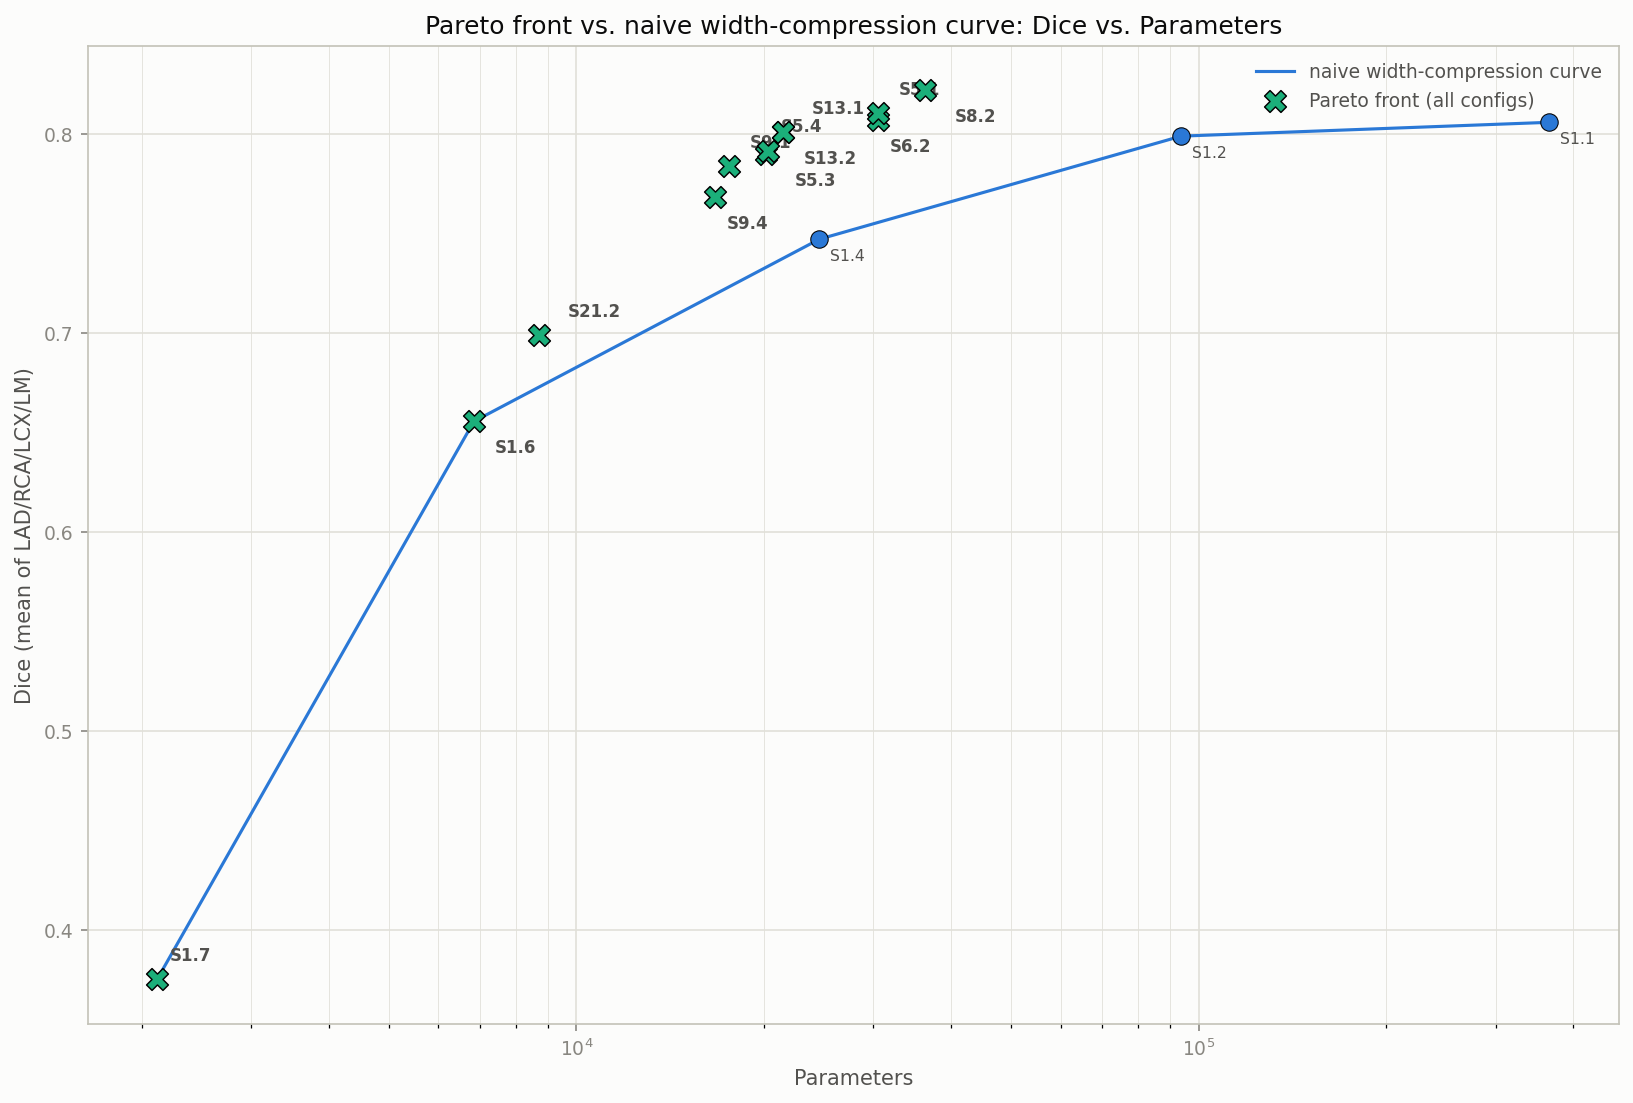
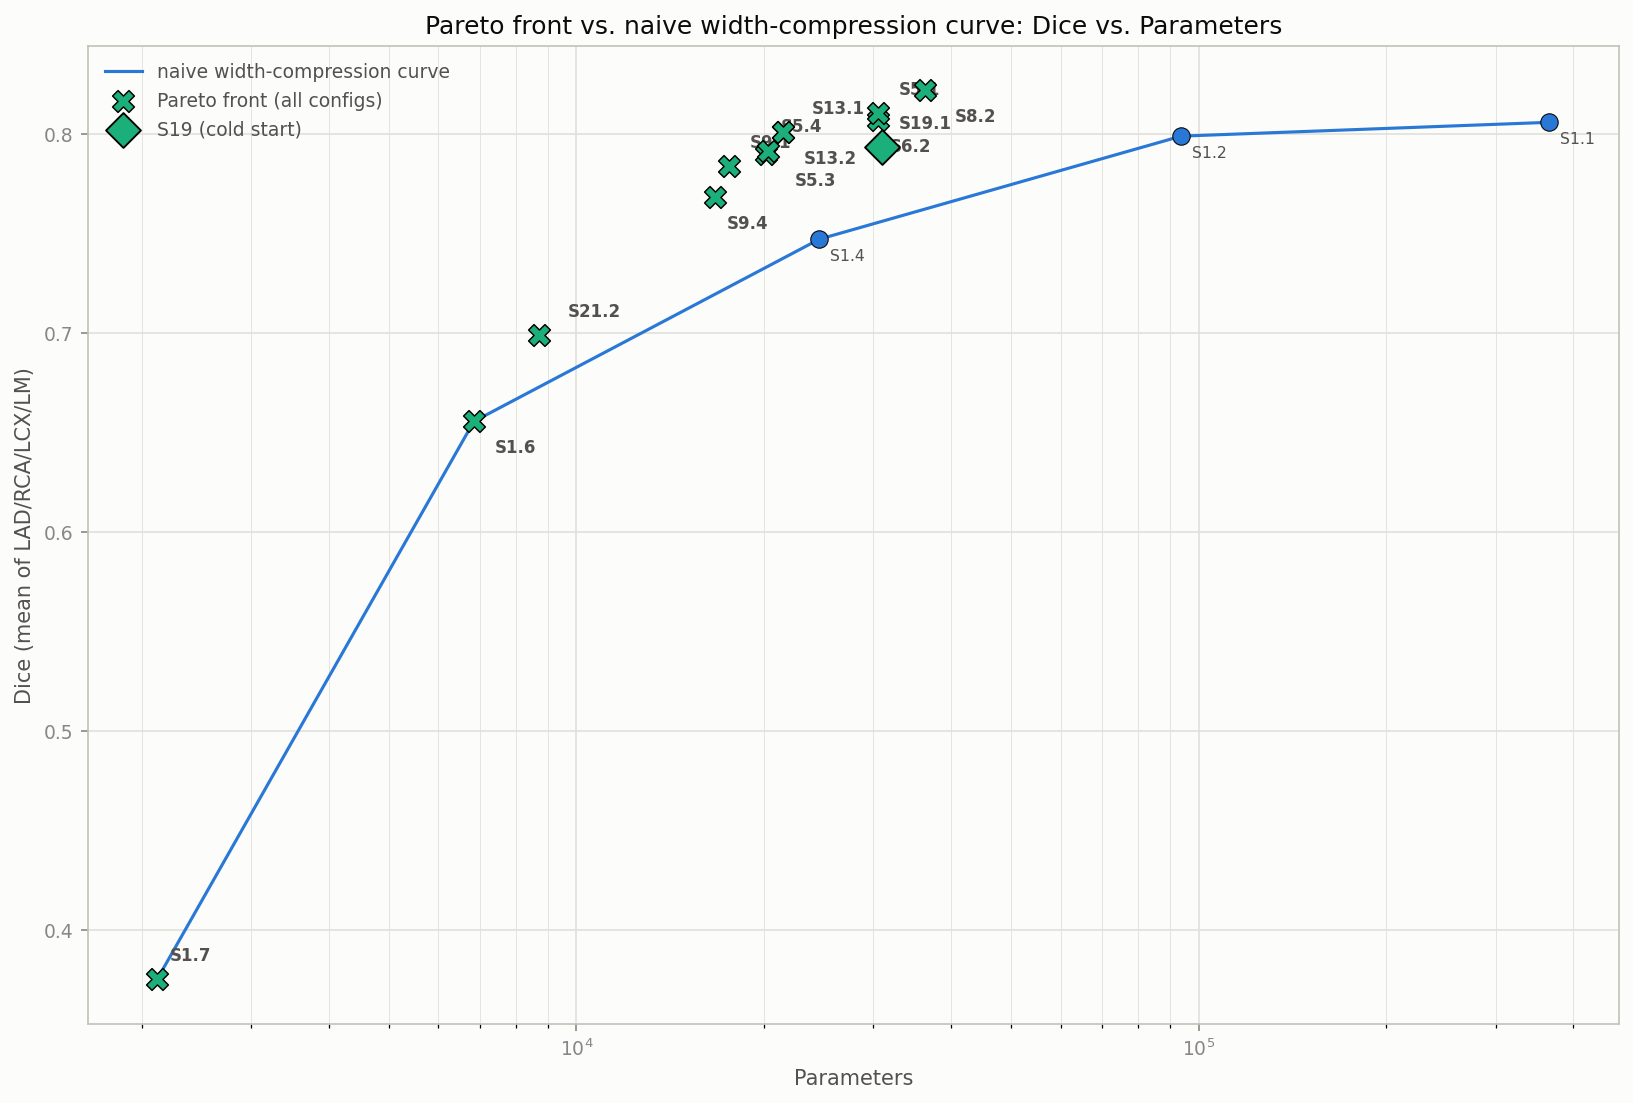
Final plots: always draw S19 (cold start) as a diamond, not just when Pareto-optimal
Previous commit only drew the diamond when S19 happened to land on that
metric's Pareto front -- since it's dominated on params/macs/mem by cheaper
configs with comparable dice, it never actually showed up. Pulls S19's
point straight from the full merged results table instead of the front
subset, and draws it unconditionally at the highest zorder (on top of
every other layer) so it's always visible regardless of whether it wins on
that particular axis -- the point is to show where this specific,
by-name-called-out config lands, not just whether it's optimal.

Changed region(s): [[0.0625, 0.0617, 0.2811, 0.1541], [0.7808, 0.0617, 0.9682, 0.0925], [0.5309, 0.0925, 0.5934, 0.1541]]

diff --git a/compression/plot_final_width_comparison.py b/compression/plot_final_width_comparison.py
@@ -21,10 +21,12 @@ figure). The Pareto front is markers only, deliberately NOT connected by a
 line -- unlike the naive curve, its points come from entirely different
 architectures with no shared axis between them (channel width), so a
 connecting line would visually imply a continuous tradeoff that doesn't
-exist between e.g. S9.4 and S13.1. Front markers are an X, except S19 (cold
-start) -- the architecture-probe config singled out by name elsewhere in the
-paper (the comparison table) -- which keeps a diamond so it stays visually
-distinct from the rest of the front.
+exist between e.g. S9.4 and S13.1. Front markers are an X. S19 (cold start,
+nnUNetTrainerENet_19_reginterleaved_separable_nonneg_block_double_mid -- the
+architecture-probe config singled out by name elsewhere in the paper's
+comparison table) is always drawn on top as its own diamond, regardless of
+whether it's actually Pareto-optimal on that particular metric -- the point
+is to show where it lands, not just whether it wins.
 
 Only rows with a compression/config_abbreviations.csv entry are
 considered (excludes pruning-grid rows, which live in results_pruning.csv
@@ -117,24 +119,32 @@ def _plot_metric(named: pd.DataFrame, naive: pd.DataFrame, x_col: str, x_label: 
         ax.annotate(row["abbrev"], (row[x_col], row["dice"]), fontsize=7.5, color=SECONDARY_INK,
                    textcoords="offset points", xytext=(5, -10))
 
-    if not front.empty:
-        front_s19 = front[front["config_name"] == S19_COLDSTART_CONFIG]
-        front_other = front[front["config_name"] != S19_COLDSTART_CONFIG]
-        if not front_other.empty:
-            ax.scatter(front_other[x_col], front_other["dice"], color=PARETO_COLOR, s=110, zorder=5,
-                       marker="X", edgecolors="black", linewidths=0.7, label="Pareto front (all configs)")
-        if not front_s19.empty:
-            ax.scatter(front_s19[x_col], front_s19["dice"], color=PARETO_COLOR, s=130, zorder=5,
-                       marker="D", edgecolors="black", linewidths=0.7, label="S19 (cold start)")
+    # S19 (cold start) is drawn as its own diamond unconditionally -- on top
+    # of every other layer (highest zorder) -- regardless of whether it's
+    # actually Pareto-optimal on this metric, since the point of showing it
+    # is "where does this specific config land", not "is it on the front".
+    # Pulled straight from `named` (not `front`), and excluded from the
+    # front's own X-marker set below so it's never drawn twice.
+    s19_row = named[named["config_name"] == S19_COLDSTART_CONFIG].dropna(subset=[x_col, "dice"])
+    front_other = front[front["config_name"] != S19_COLDSTART_CONFIG] if not front.empty else front
+    if not front_other.empty:
+        ax.scatter(front_other[x_col], front_other["dice"], color=PARETO_COLOR, s=110, zorder=5,
+                   marker="X", edgecolors="black", linewidths=0.7, label="Pareto front (all configs)")
         # Alternate the label offset up/down (and vary horizontal reach a
         # little) so densely-packed Pareto points -- common near the
         # "knee" of the curve where several architectures land close
         # together -- don't render with fully overlapping text.
-        for i, (_, row) in enumerate(front.iterrows()):
+        for i, (_, row) in enumerate(front_other.iterrows()):
             y_off = 9 if i % 2 == 0 else -15
             x_off = 6 + 4 * (i % 3)
             ax.annotate(row["abbrev"], (row[x_col], row["dice"]), fontsize=8, color=SECONDARY_INK,
                        fontweight="bold", textcoords="offset points", xytext=(x_off, y_off))
+    if not s19_row.empty:
+        ax.scatter(s19_row[x_col], s19_row["dice"], color=PARETO_COLOR, s=140, zorder=6,
+                   marker="D", edgecolors="black", linewidths=0.9, label="S19 (cold start)")
+        for _, row in s19_row.iterrows():
+            ax.annotate(row["abbrev"], (row[x_col], row["dice"]), fontsize=8, color=SECONDARY_INK,
+                       fontweight="bold", textcoords="offset points", xytext=(8, 9))
 
     ax.set_xlabel(x_label, color=SECONDARY_INK, fontsize=10)
     ax.set_title(f"Pareto front vs. naive width-compression curve: Dice vs. {x_label}", color=INK, fontsize=12)
@@ -142,7 +152,8 @@ def _plot_metric(named: pd.DataFrame, naive: pd.DataFrame, x_col: str, x_label: 
     fig.tight_layout()
     fig.savefig(out_path, dpi=150, bbox_inches="tight", facecolor=SURFACE)
     plt.close(fig)
-    print(f"Wrote {out_path} ({len(front)} Pareto-front points)")
+    s19_note = " +S19 cold start" if not s19_row.empty else ""
+    print(f"Wrote {out_path} ({len(front_other)} Pareto-front points{s19_note})")
 
 
 def main() -> int:
